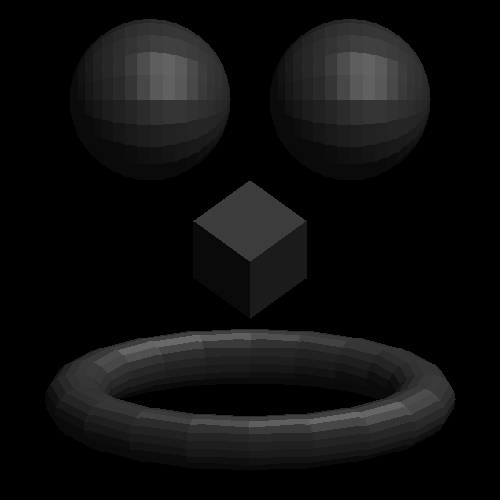
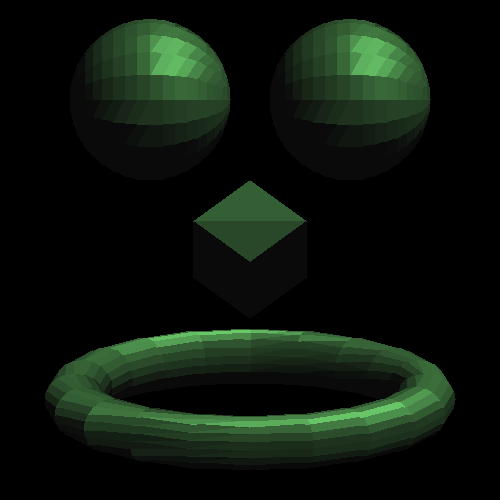
gouraud scanline wip

diff --git a/draw.py b/draw.py
@@ -2,6 +2,102 @@ from display import *
 from matrix import *
 from gmath import *
 
+def draw_scanline_gouraud(x0, z0, x1, z1, y, screen, zbuffer, color):
+    if x0 > x1:
+        tx = x0
+        tz = z0
+        x0 = x1
+        z0 = z1
+        x1 = tx
+        z1 = tz
+
+    x = x0
+    z = z0
+    delta_z = (z1 - z0) / (x1 - x0 + 1) if (x1 - x0 + 1) != 0 else 0
+
+    while x <= x1:
+        plot(screen, zbuffer, color, x, y, z)
+        x+= 1
+        z+= delta_z
+
+def scanline_gouraud(polygons, i, screen, zbuffer, light_info, average_vector_norms):
+    flip = False
+    BOT = 0
+    TOP = 2
+    MID = 1
+
+    points = [ (polygons[i][0], polygons[i][1], polygons[i][2]),
+               (polygons[i+1][0], polygons[i+1][1], polygons[i+1][2]),
+               (polygons[i+2][0], polygons[i+2][1], polygons[i+2][2]) ]
+
+    points.sort(key = lambda x: x[1])
+    x0 = points[BOT][0]
+    z0 = points[BOT][2]
+    x1 = points[BOT][0]
+    z1 = points[BOT][2]
+    y = int(points[BOT][1])
+
+    aN_bot = average_vector_norms[ str(estimate(points[BOT])) ][0]
+    inten_bot = [0,0,0]
+    for light in light_info[2]:
+        c =  get_lighting(aN_bot, light_info[0], light_info[1], light, light_info[3], light_info[4] )
+        inten_bot[0] += c[0]
+        inten_bot[1] += c[1]
+        inten_bot[2] += c[2]
+    limit_color(inten_bot)
+    print "INTEN"
+    print inten_bot
+
+    aN_mid = average_vector_norms[ str(estimate(points[MID])) ][0]
+    inten_mid = [0,0,0]
+    for light in light_info[2]:
+        c =  get_lighting(aN_mid, light_info[0], light_info[1], light, light_info[3], light_info[4] )
+        inten_mid[0] += c[0]
+        inten_mid[1] += c[1]
+        inten_mid[2] += c[2]
+    limit_color(aN_mid)
+    print inten_mid
+
+    aN_top = average_vector_norms[ str(estimate(points[TOP])) ][0]
+    inten_top = [0,0,0]
+    for light in light_info[2]:
+        c =  get_lighting(aN_top, light_info[0], light_info[1], light, light_info[3], light_info[4] )
+        inten_top[0] += c[0]
+        inten_top[1] += c[1]
+        inten_top[2] += c[2]
+    limit_color(inten_top)
+    print inten_top
+
+    # inten_bot/mid/top
+
+    distance0 = int(points[TOP][1]) - y * 1.0 + 1
+    distance1 = int(points[MID][1]) - y * 1.0 + 1
+    distance2 = int(points[TOP][1]) - int(points[MID][1]) * 1.0 + 1
+
+    dx0 = (points[TOP][0] - points[BOT][0]) / distance0 if distance0 != 0 else 0
+    dz0 = (points[TOP][2] - points[BOT][2]) / distance0 if distance0 != 0 else 0
+    dx1 = (points[MID][0] - points[BOT][0]) / distance1 if distance1 != 0 else 0
+    dz1 = (points[MID][2] - points[BOT][2]) / distance1 if distance1 != 0 else 0
+
+    # inten0 = bot to mid, 
+    #
+    while y <= int(points[TOP][1]):
+        if ( not flip and y >= int(points[MID][1])):
+            flip = True
+
+            dx1 = (points[TOP][0] - points[MID][0]) / distance2 if distance2 != 0 else 0
+            dz1 = (points[TOP][2] - points[MID][2]) / distance2 if distance2 != 0 else 0
+            x1 = points[MID][0]
+            z1 = points[MID][2]
+
+        #draw_line(int(x0), y, z0, int(x1), y, z1, screen, zbuffer, color)
+        draw_scanline_gouraud(int(x0), z0, int(x1), z1, y, screen, zbuffer, inten_bot)
+        x0+= dx0
+        z0+= dz0
+        x1+= dx1
+        z1+= dz1
+        y+= 1
+
 def draw_scanline(x0, z0, x1, z1, y, screen, zbuffer, color):
     if x0 > x1:
         tx = x0
@@ -20,7 +116,7 @@ def draw_scanline(x0, z0, x1, z1, y, screen, zbuffer, color):
         x+= 1
         z+= delta_z
 
-def scanline_convert(polygons, i, screen, zbuffer, color, shading):
+def scanline_convert(polygons, i, screen, zbuffer, color):
     flip = False
     BOT = 0
     TOP = 2
@@ -29,15 +125,6 @@ def scanline_convert(polygons, i, screen, zbuffer, color, shading):
     points = [ (polygons[i][0], polygons[i][1], polygons[i][2]),
                (polygons[i+1][0], polygons[i+1][1], polygons[i+1][2]),
                (polygons[i+2][0], polygons[i+2][1], polygons[i+2][2]) ]
-    if shading == 'gouraud':
-        pass
-        # print 'GOURAUD'
-        # vertices = [
-        #         calculate_normal(polygons, i),
-        #         calculate_normal(polygons, i+1),
-        #         calculate_normal(polygons, i+2)
-        #         ]
-        # print polygons
 
     # alas random color, we hardly knew ye
     #color = [0,0,0]
@@ -134,7 +221,7 @@ def draw_polygons( polygons, screen, zbuffer, view, ambient, lights, symbols, re
     average_vector_norms = {}
     if shading == 'gouraud' or shading == 'phong':
         average_vector_norms = calculate_vertex_norms( polygons )
-        print average_vector_norms
+        # print average_vector_norms
 
     point = 0
     while point < len(polygons) - 2:
@@ -144,23 +231,26 @@ def draw_polygons( polygons, screen, zbuffer, view, ambient, lights, symbols, re
         #print normal
         if normal[2] > 0:
 
-            color = [0,0,0]
-            for light in lights:
-                c =  get_lighting(normal, view, ambient, light, symbols, reflect )
-                color[0] += c[0]
-                color[1] += c[1]
-                color[2] += c[2]
-            limit_color(color)
-            scanline_convert(polygons, point, screen, zbuffer, color, shading)
-            # if shading == 'flat':
-            #     print 'flat'
-            #     scanline_convert(polygons, point, screen, zbuffer, color)
-            # elif shading == 'gouraud':
-            #     print 'gouraud'
-            #     scanline_convert(polygons, point, screen, zbuffer, color)
-            # else:
-            #     print 'phong'
-            #     scanline_convert(polygons, point, screen, zbuffer, color)
+            #scanline_convert(polygons, point, screen, zbuffer, color, shading, average_vector_norms)
+            if shading == 'flat':
+                color = [0,0,0]
+                for light in lights:
+
+                    c =  get_lighting(normal, view, ambient, light, symbols, reflect )
+
+                    color[0] += c[0]
+                    color[1] += c[1]
+                    color[2] += c[2]
+                limit_color(color)
+                scanline_convert(polygons, point, screen, zbuffer, color)
+            elif shading == 'gouraud':
+
+                light_info = [view, ambient, lights, symbols, reflect]
+
+                scanline_gouraud(polygons, point, screen, zbuffer, light_info, average_vector_norms)
+            else:
+                print 'phong'
+                scanline_phong(polygons, point, screen, zbuffer, color, average_vector_norms)
 
             # draw_line( int(polygons[point][0]),
             #            int(polygons[point][1]),
